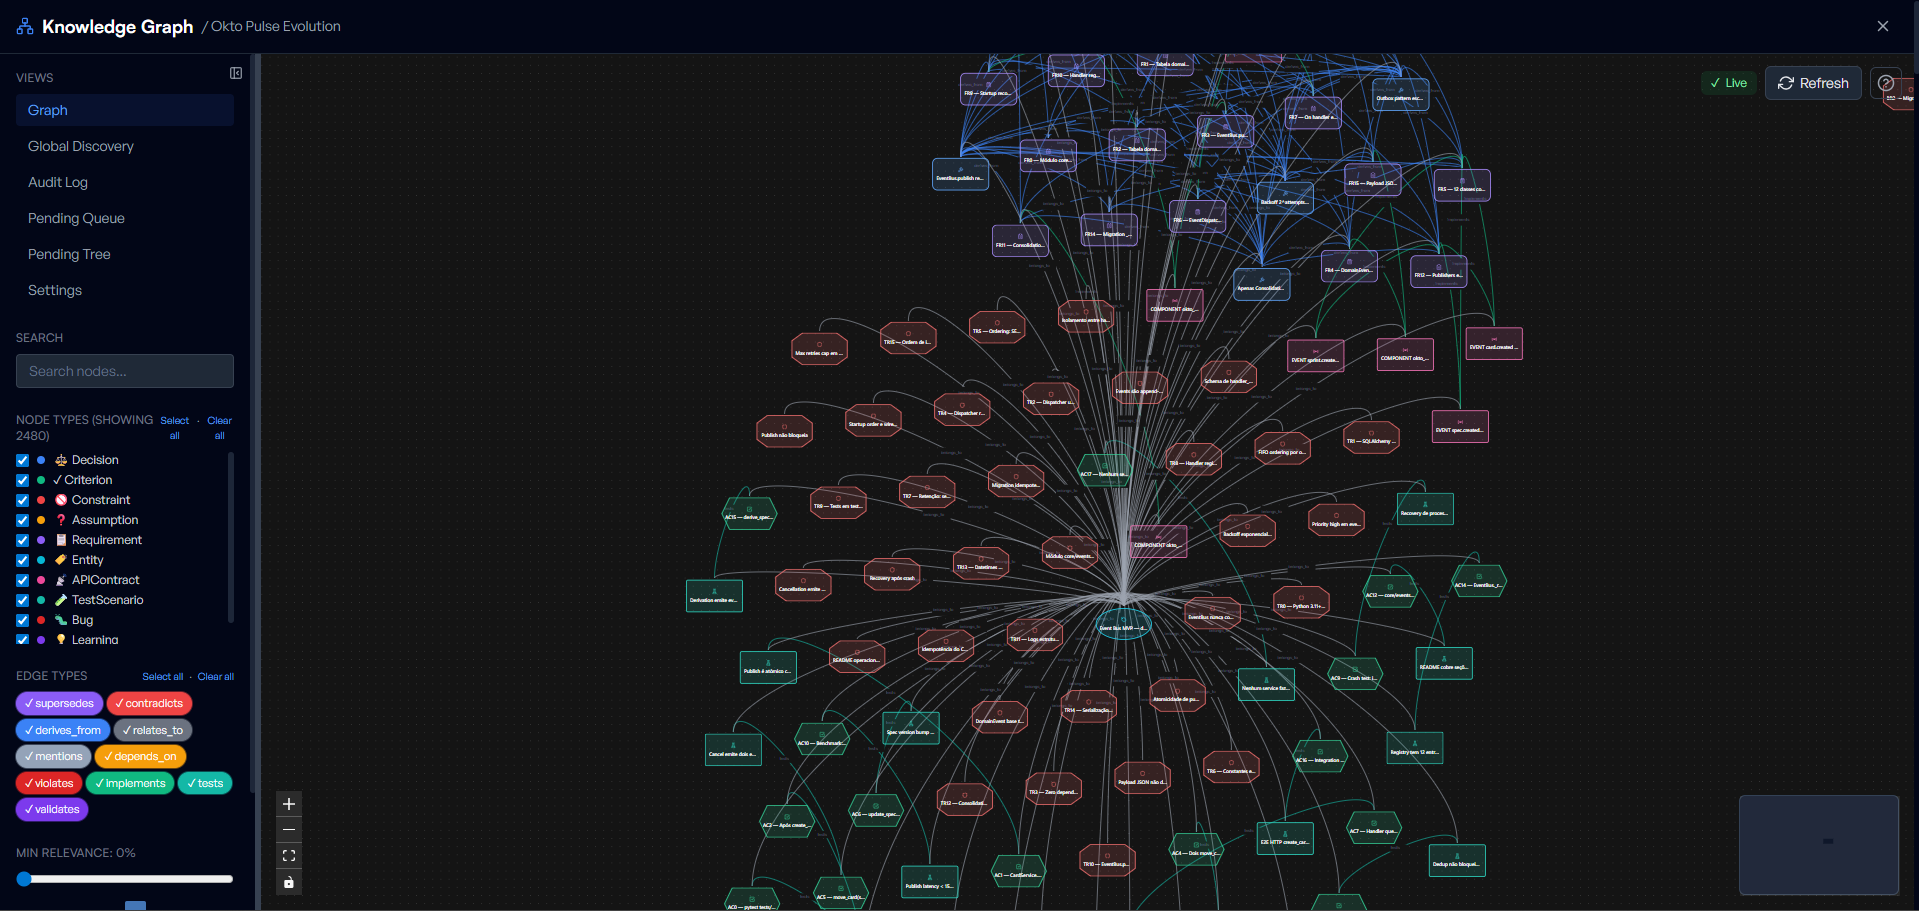
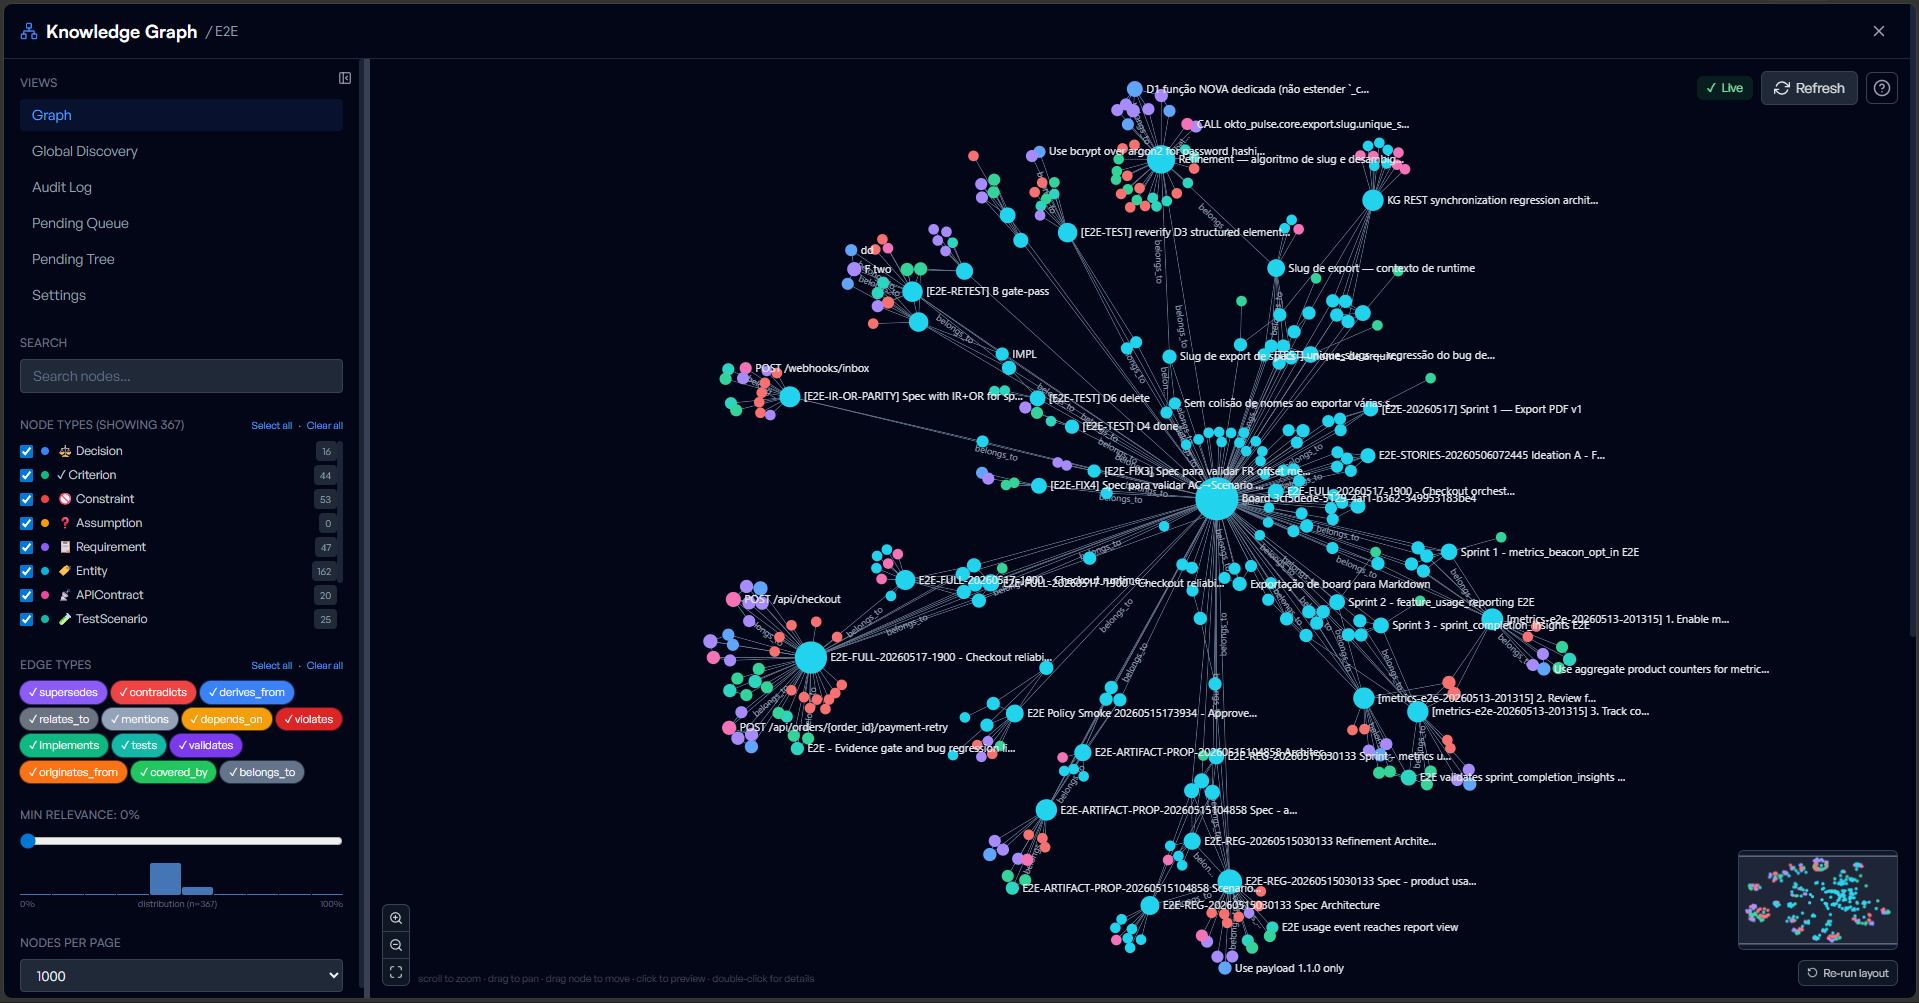
assets: refresh knowledge graph screenshot
Replace the outdated graph capture with the current KG view (367
nodes, typed-edge legend, relevance filter). Same png/webp pair,
updated intrinsic size (1919x1003) and richer alt text.

Changed region(s): [[0.0, 0.0, 1.0, 1.0]]

diff --git a/index.html b/index.html
@@ -796,7 +796,7 @@
             </picture>
             <picture data-shot="5">
               <source srcset="./assets/screenshots/11-knowledge-graph.webp" type="image/webp" />
-              <img src="./assets/screenshots/11-knowledge-graph.png" alt="Okto Pulse knowledge graph showing linked decisions, requirements, tests, and learnings" width="1919" height="911" loading="lazy" />
+              <img src="./assets/screenshots/11-knowledge-graph.png" alt="Okto Pulse knowledge graph with hundreds of nodes — decisions, criteria, constraints, requirements, entities, API contracts, and test scenarios linked by typed edges" width="1919" height="1003" loading="lazy" />
             </picture>
           </div>
         </figure>
